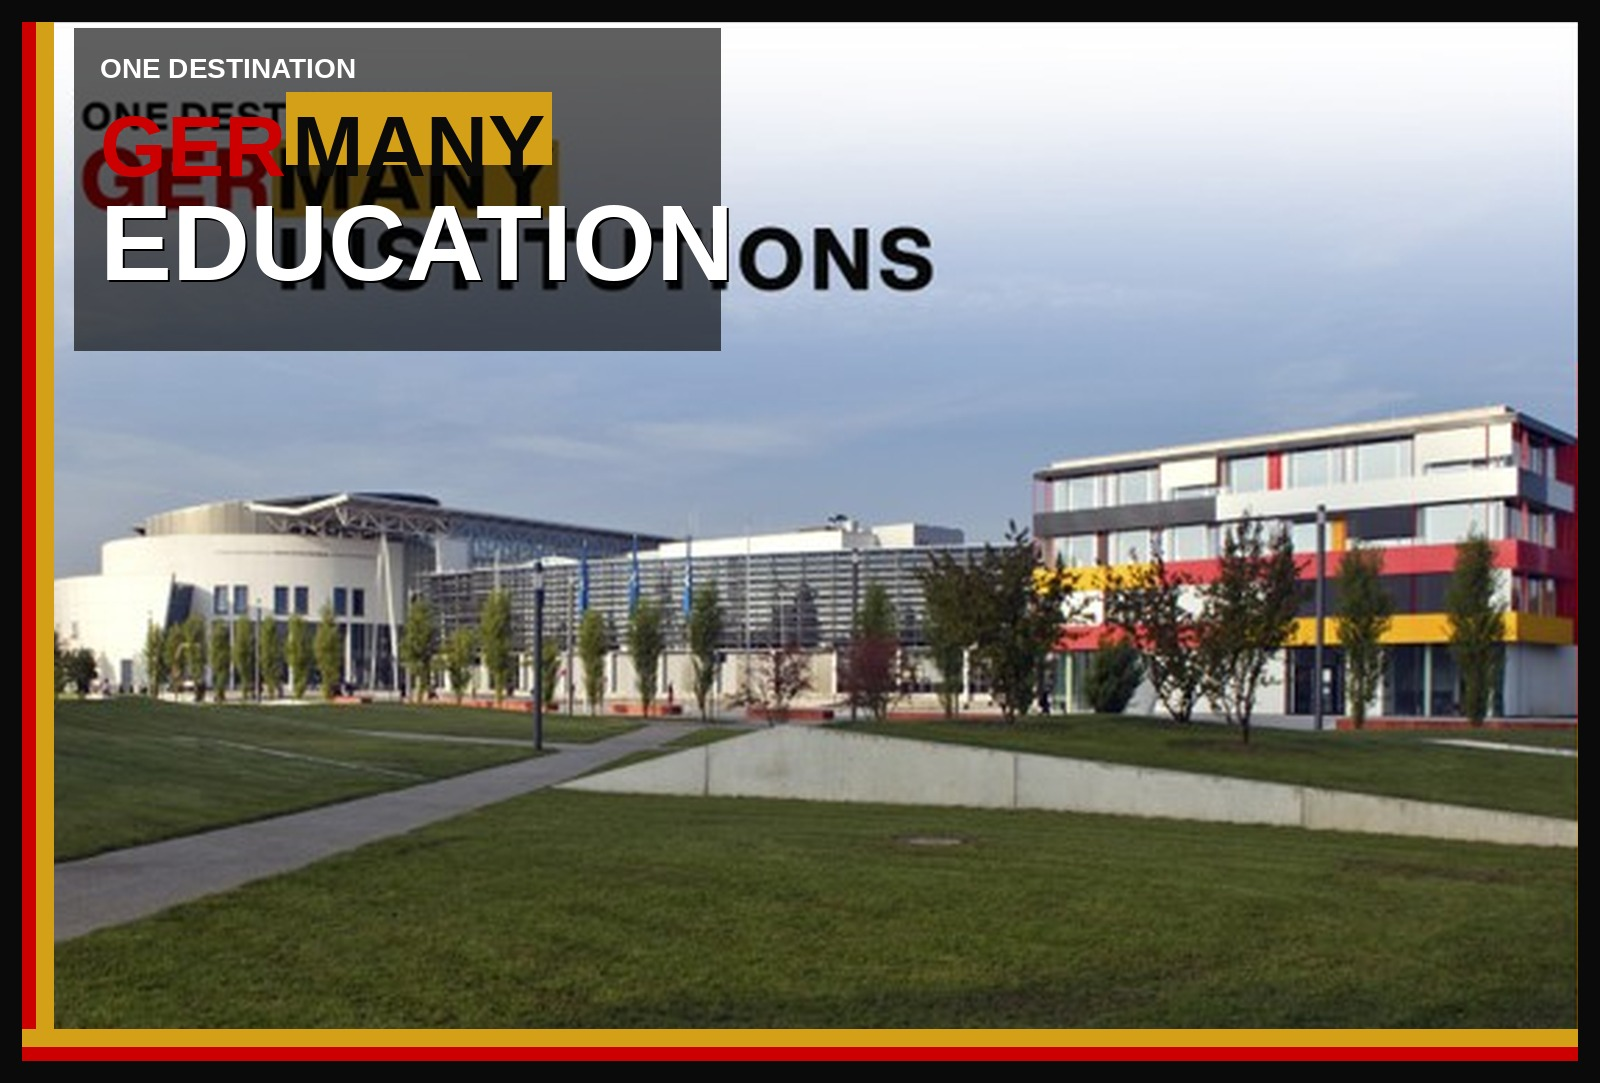
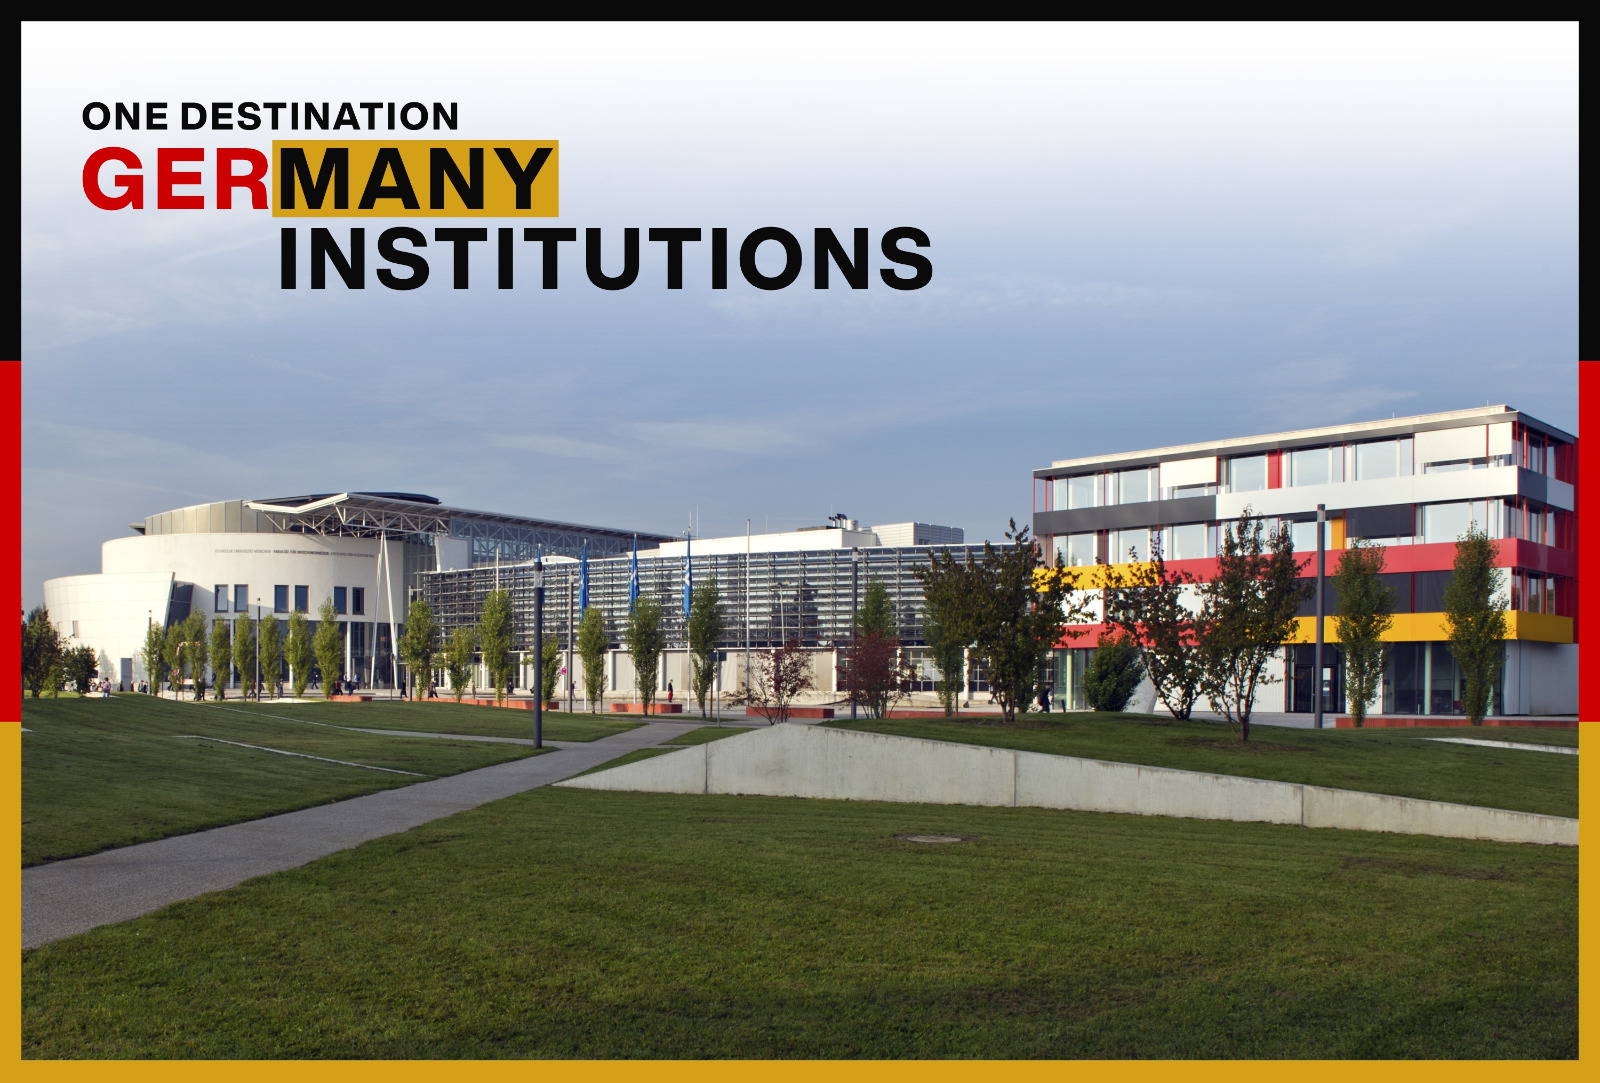
Updates

diff --git a/germany.html b/germany.html
@@ -224,7 +224,7 @@
 ════════════════════════════════════════════════ -->
 <div id="landscapes" class="gm-section">
 
-  <div class="gm-hero" style="background-image: url('images/Picture2.jpg'); background-position: center 33%;">
+  <div class="gm-hero" style="background-image: url('images/IMG-20260608-WA0001.jpg.jpeg'); background-position: center 33%;">
     <div class="gm-hero__overlay"></div>
     <div class="gm-hero__content">
       <div class="gm-hero__eyebrow">Nature · Architecture · Heritage</div>
